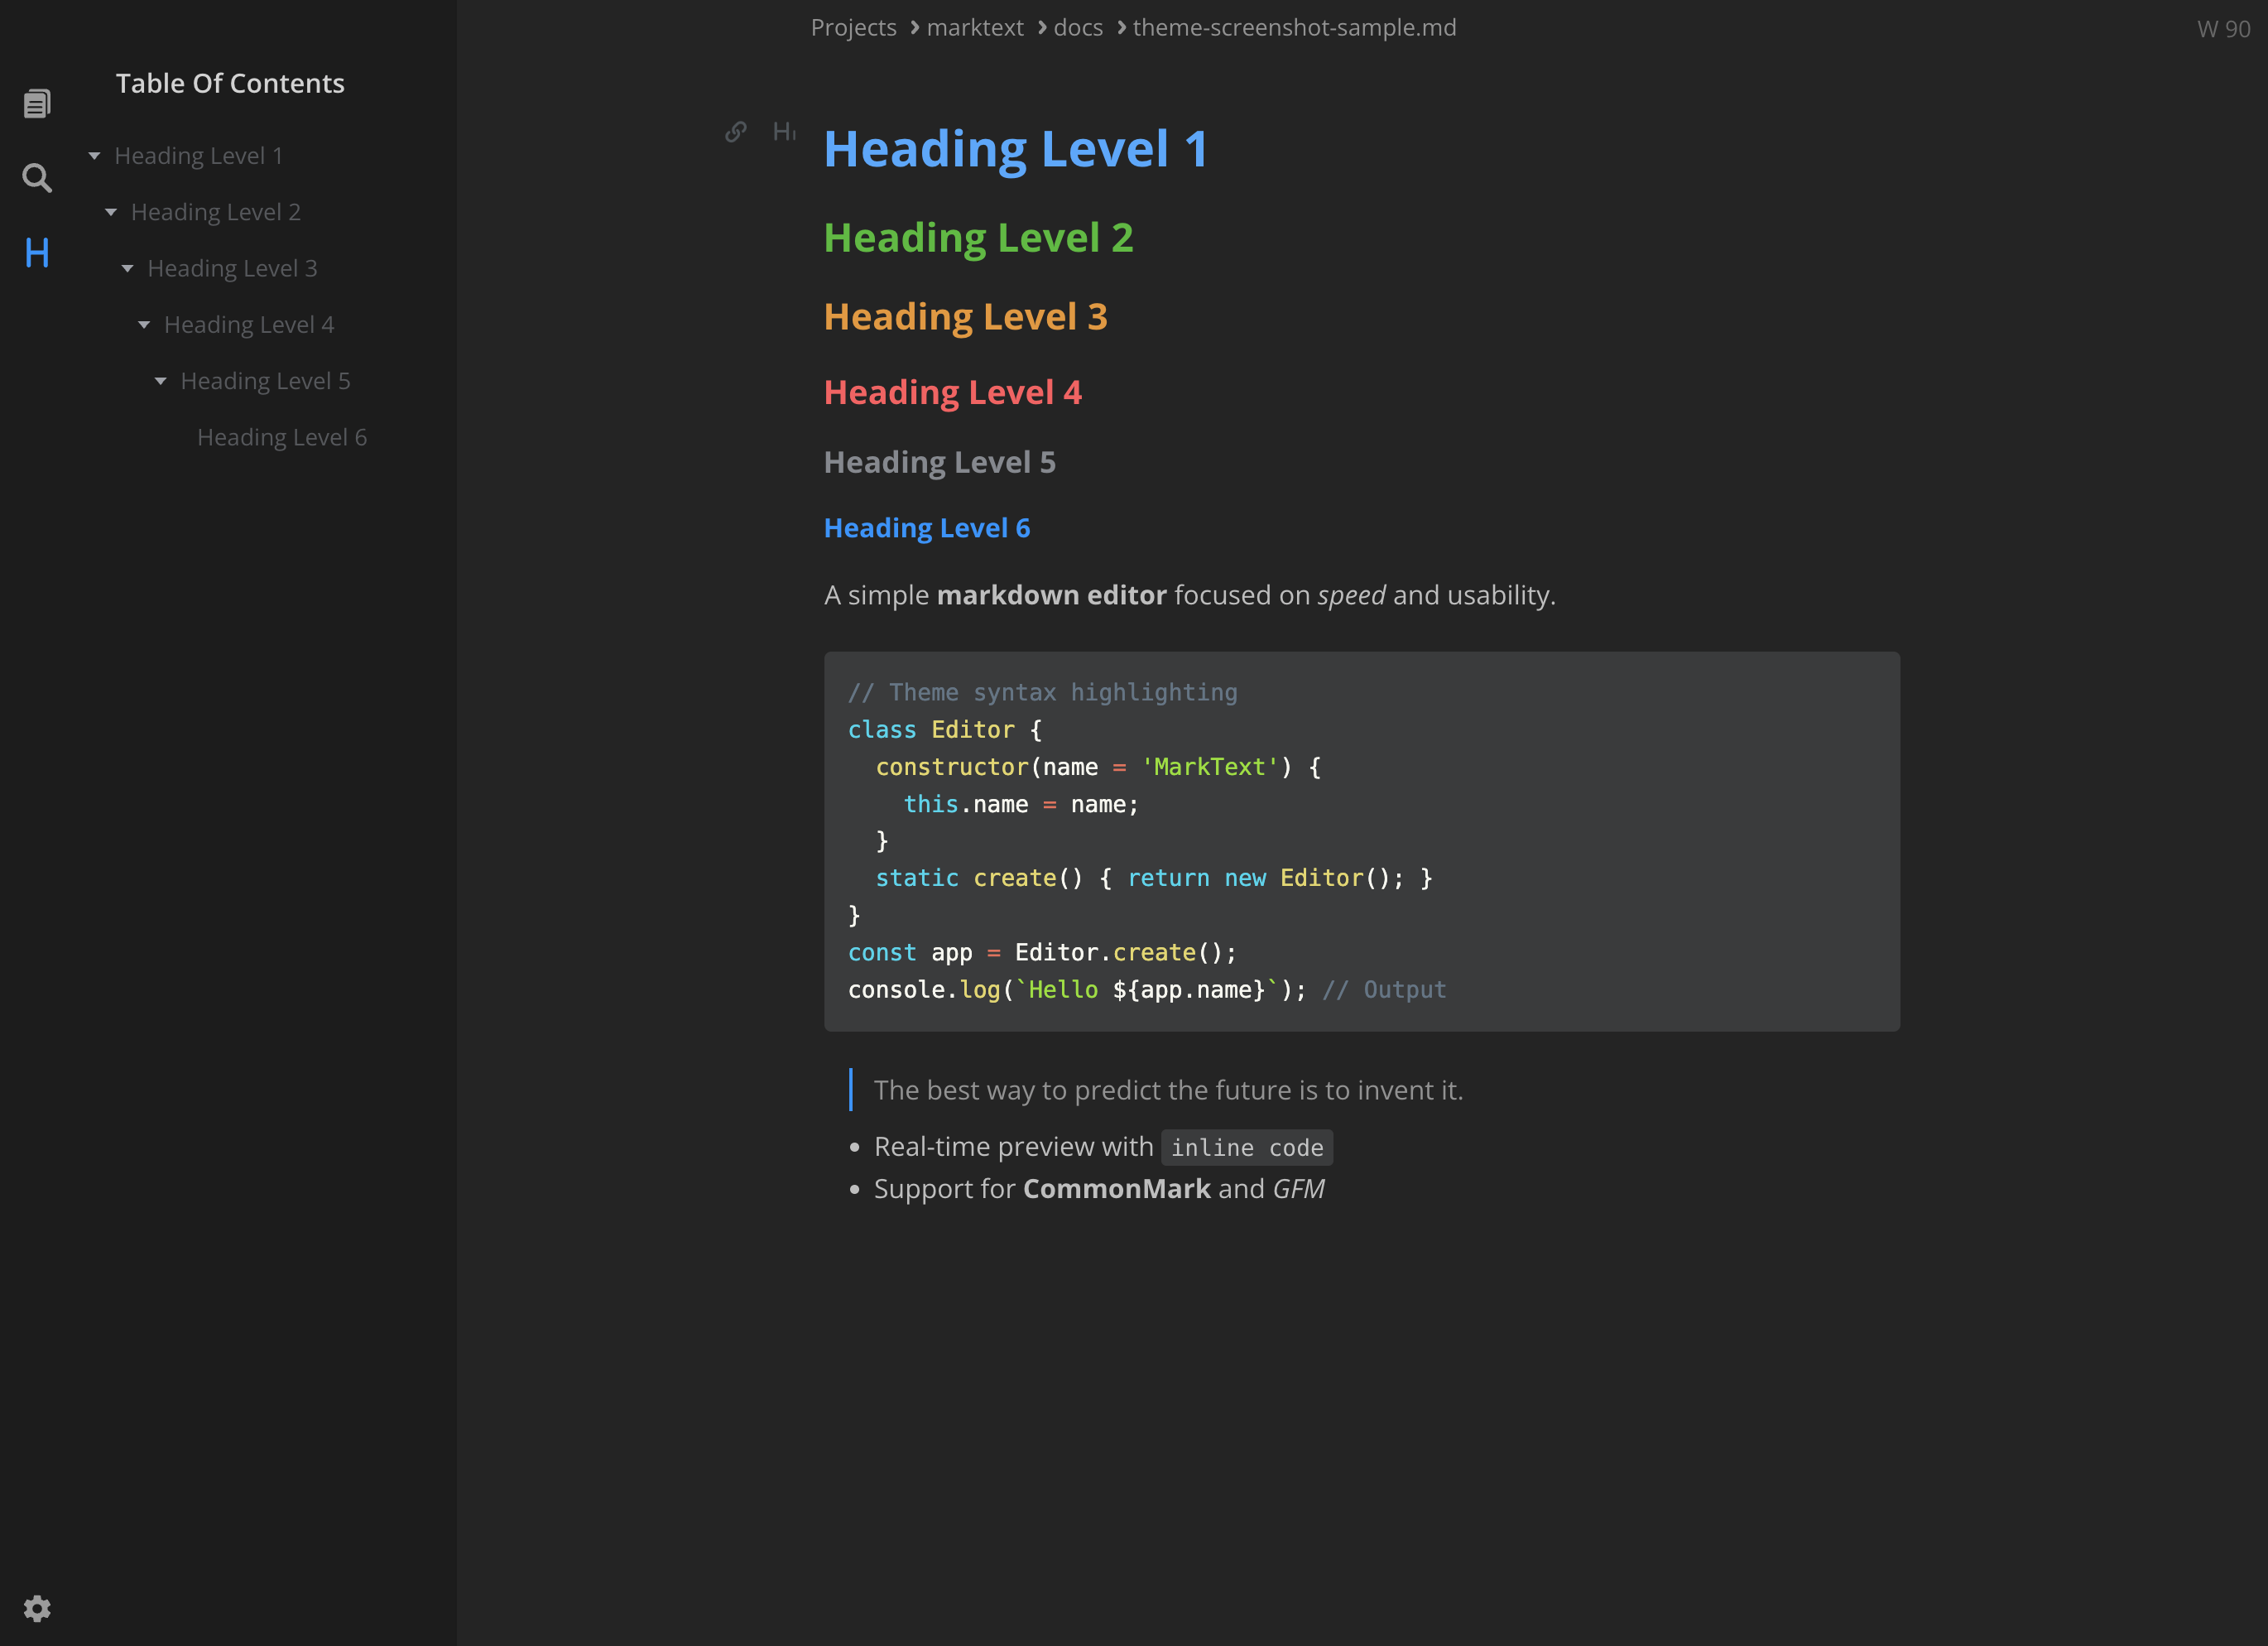
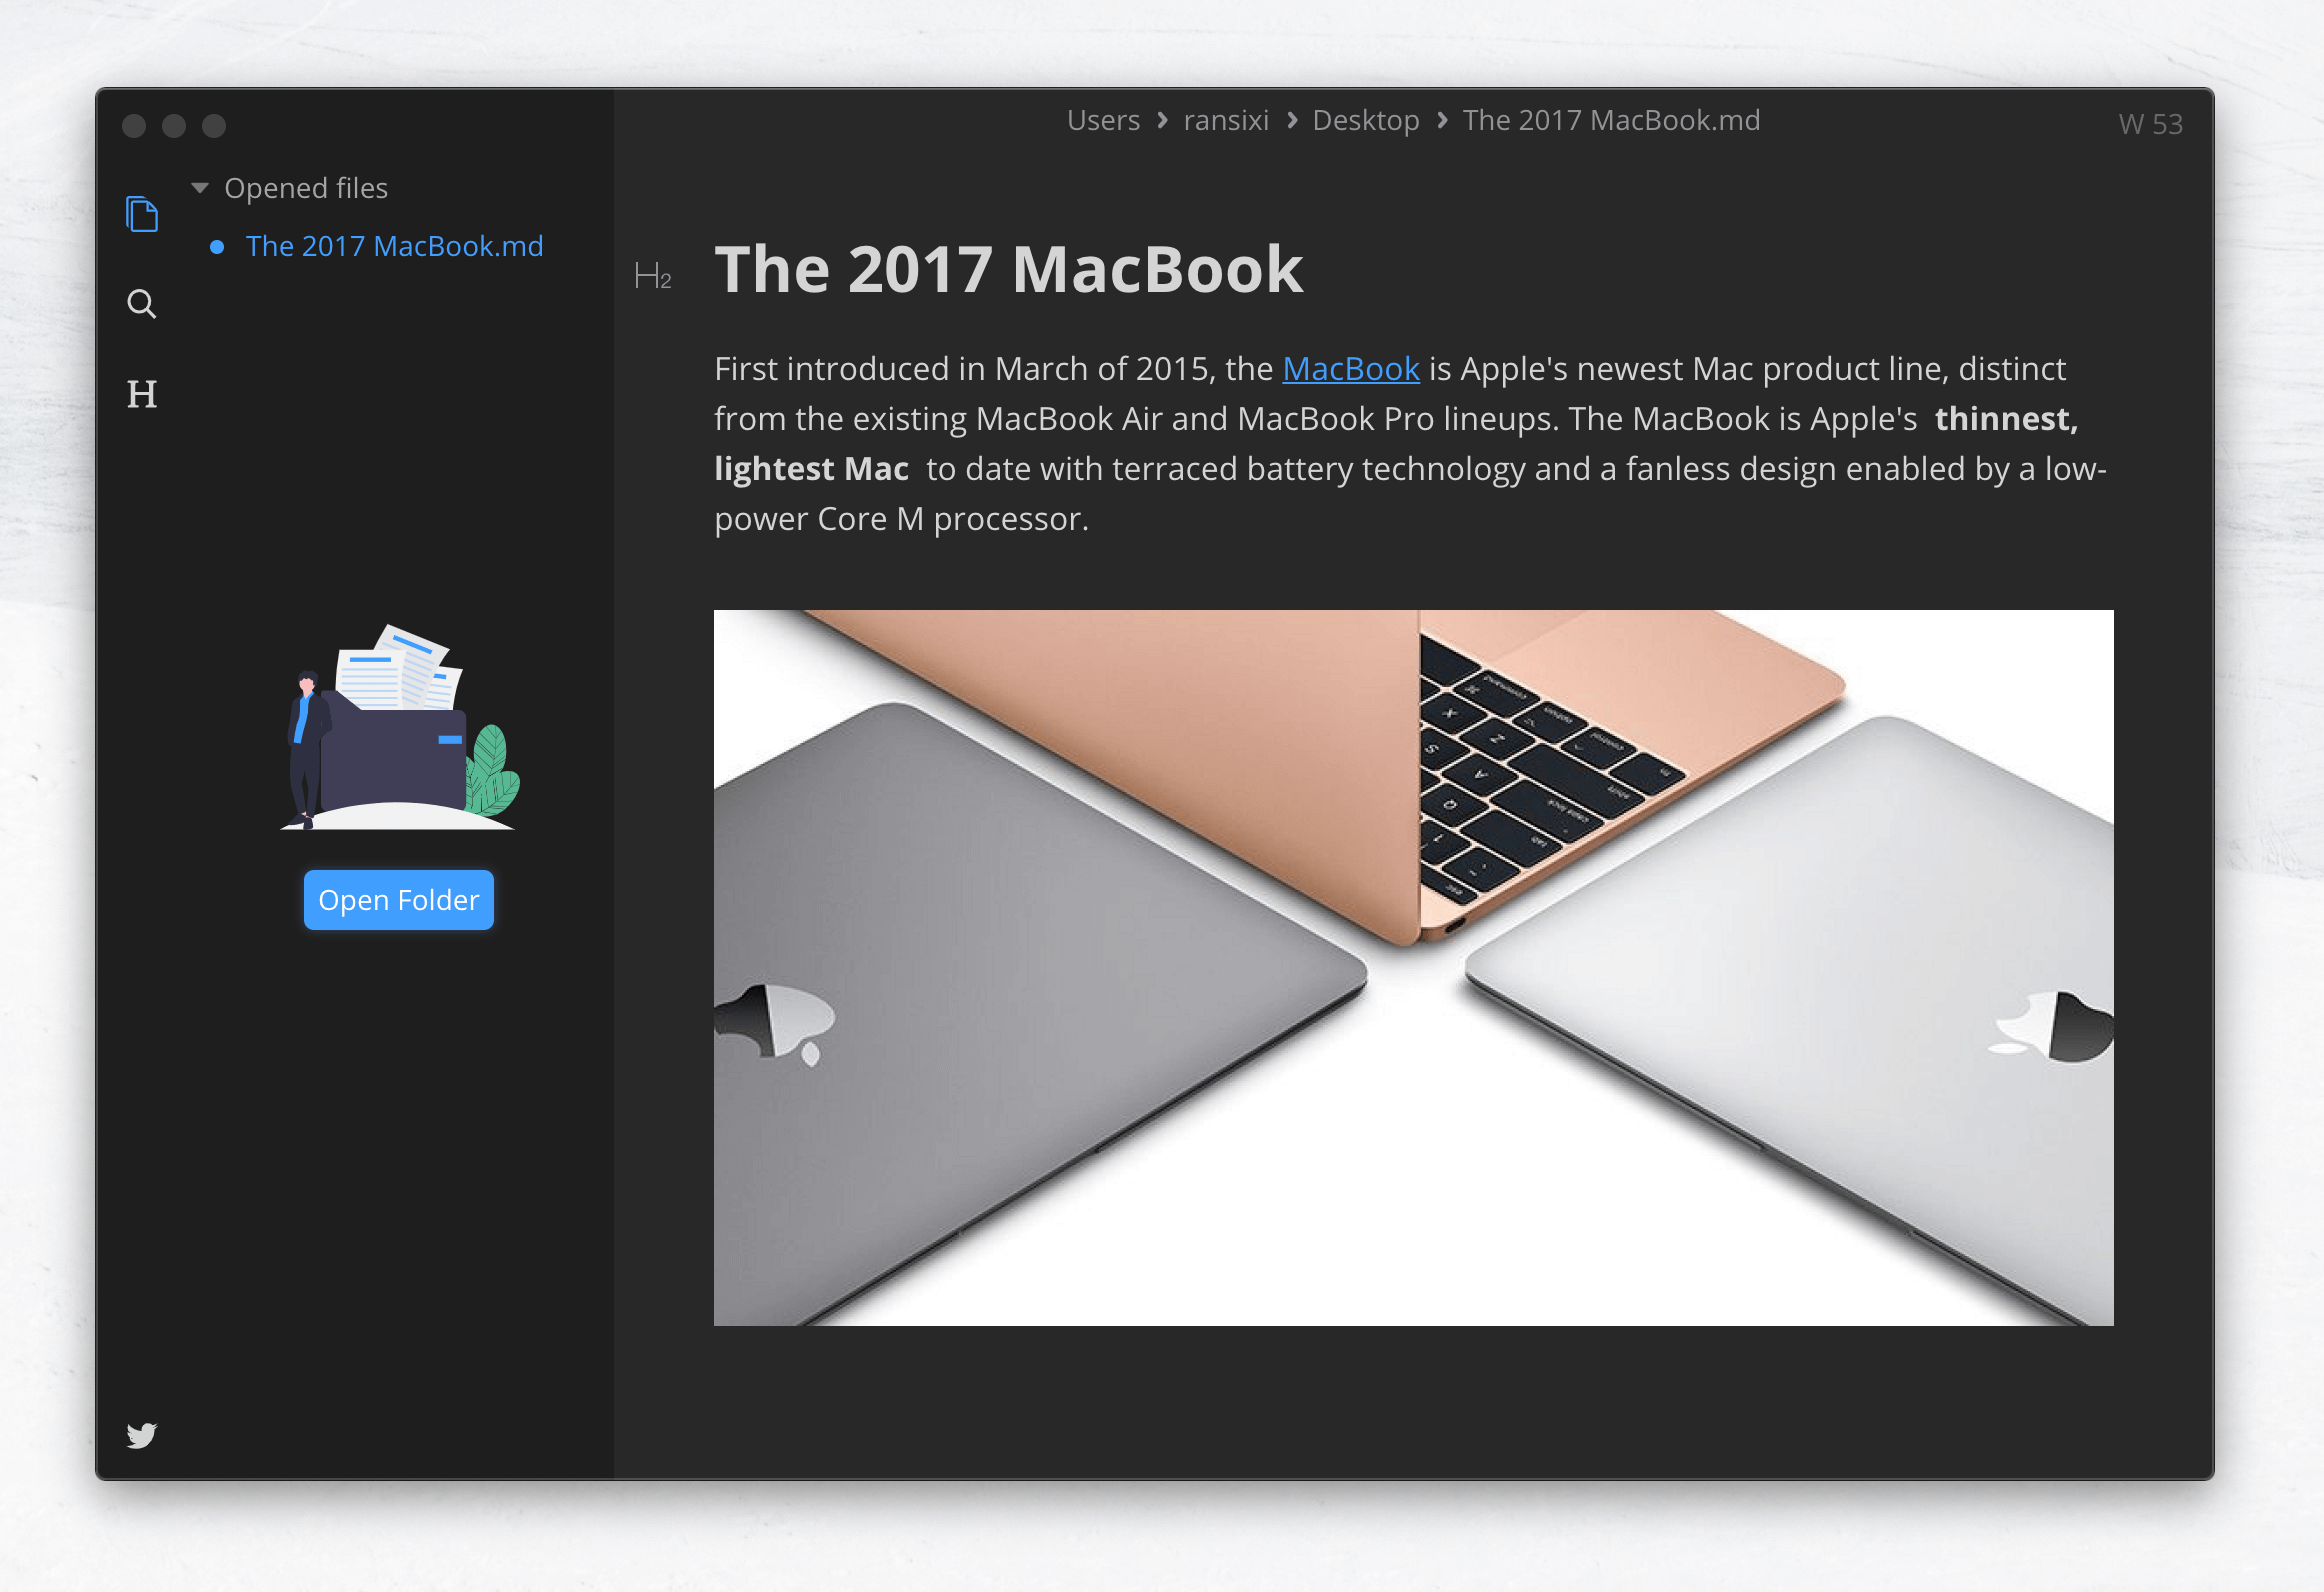
Restore dark theme to original marktext dark

diff --git a/src/renderer/src/assets/themes/dark.theme.css b/src/renderer/src/assets/themes/dark.theme.css
@@ -1,37 +1,37 @@
 :root {
   /*editor*/
   --themeColor: #409eff;
-  --themeColor90: rgba(64, 158, 255, .9);
-  --themeColor80: rgba(64, 158, 255, .8);
-  --themeColor70: rgba(64, 158, 255, .7);
-  --themeColor60: rgba(64, 158, 255, .6);
-  --themeColor50: rgba(64, 158, 255, .5);
-  --themeColor40: rgba(64, 158, 255, .4);
-  --themeColor30: rgba(64, 158, 255, .3);
-  --themeColor20: rgba(64, 158, 255, .2);
-  --themeColor10: rgba(64, 158, 255, .1);
+  --themeColor90: rgba(64, 158, 255, 0.9);
+  --themeColor80: rgba(64, 158, 255, 0.8);
+  --themeColor70: rgba(64, 158, 255, 0.7);
+  --themeColor60: rgba(64, 158, 255, 0.6);
+  --themeColor50: rgba(64, 158, 255, 0.5);
+  --themeColor40: rgba(64, 158, 255, 0.4);
+  --themeColor30: rgba(64, 158, 255, 0.3);
+  --themeColor20: rgba(64, 158, 255, 0.2);
+  --themeColor10: rgba(64, 158, 255, 0.1);
 
-  --highlightColor: rgba(102, 177, 255, .6);
-  --selectionColor: rgba(102, 177, 255, .3);
-  --editorColor: rgba(255, 255, 255, .7);
-  --editorColor80: rgba(255, 255, 255, .8);
-  --editorColor60: rgba(255, 255, 255, .6);
-  --editorColor50: rgba(255, 255, 255, .5);
-  --editorColor40: rgba(255, 255, 255, .4);
-  --editorColor30: rgba(255, 255, 255, .3);
-  --editorColor10: rgba(255, 255, 255, .1);
-  --editorColor04: rgba(255, 255, 255, .04);
+  --highlightColor: rgba(102, 177, 255, 0.6);
+  --selectionColor: rgba(102, 177, 255, 0.3);
+  --editorColor: rgba(255, 255, 255, 0.7);
+  --editorColor80: rgba(255, 255, 255, 0.8);
+  --editorColor60: rgba(255, 255, 255, 0.6);
+  --editorColor50: rgba(255, 255, 255, 0.5);
+  --editorColor40: rgba(255, 255, 255, 0.4);
+  --editorColor30: rgba(255, 255, 255, 0.3);
+  --editorColor10: rgba(255, 255, 255, 0.1);
+  --editorColor04: rgba(255, 255, 255, 0.04);
   --editorBgColor: #282828;
   --deleteColor: #409eff;
-  --iconColor: rgba(255, 255, 255, .56);
+  --iconColor: rgba(255, 255, 255, 0.56);
   --codeBgColor: #424344;
   --codeBlockBgColor: #424344;
-  --footnoteBgColor: rgba(66, 67, 68, .3);
+  --footnoteBgColor: rgba(66, 67, 68, 0.3);
   --inputBgColor: #2f3336;
 
   --focusColor: var(--themeColor);
 
-  --buttonFontColor: rgba(255, 255, 255, .6);
+  --buttonFontColor: rgba(255, 255, 255, 0.6);
   --buttonBgColor: #424344;
   --buttonBorder: 1px solid rgba(0, 0, 0, 0.2);
   --buttonShadow: none;
@@ -57,36 +57,36 @@
   --tableBorderColor: #363839;
 
   /* Markdown element colors */
-  --headingColor: rgba(255, 255, 255, .8);
-  --h1Color: #66b1ff;
-  --h2Color: #67c23a;
-  --h3Color: #e6a23c;
-  --h4Color: #f56c6c;
-  --h5Color: #909399;
-  --h6Color: #409eff;
-  --blockquoteTextColor: rgba(255, 255, 255, .5);
+  --headingColor: rgba(255, 255, 255, 0.8);
+  --h1Color: var(--editorColor80);
+  --h2Color: var(--editorColor80);
+  --h3Color: var(--editorColor80);
+  --h4Color: var(--editorColor80);
+  --h5Color: var(--editorColor80);
+  --h6Color: var(--editorColor80);
+  --blockquoteTextColor: rgba(255, 255, 255, 0.5);
   --blockquoteBorderColor: #409eff;
-  --hrColor: rgba(255, 255, 255, .1);
+  --hrColor: rgba(255, 255, 255, 0.1);
   --linkColor: #409eff;
-  --strongColor: rgba(255, 255, 255, .8);
+  --strongColor: rgba(255, 255, 255, 0.8);
   --emColor: #66b1ff;
   --listMarkerColor: #409eff;
 
   /*marktext*/
-  --sideBarColor: rgba(255, 255, 255, .6);
+  --sideBarColor: rgba(255, 255, 255, 0.6);
   --sideBarIconColor: var(--iconColor);
-  --sideBarTitleColor: rgba(255, 255, 255, .8);
-  --sideBarTextColor: rgba(255, 255, 255, .4);
+  --sideBarTitleColor: rgba(255, 255, 255, 0.8);
+  --sideBarTextColor: rgba(255, 255, 255, 0.4);
   --sideBarBgColor: #1e1e1e;
-  --sideBarItemHoverBgColor: rgba(255, 255, 255, .03);
+  --sideBarItemHoverBgColor: rgba(255, 255, 255, 0.03);
   --itemBgColor: #3f3f3f;
 
-  --floatFontColor: rgba(255, 255, 255, .7);
+  --floatFontColor: rgba(255, 255, 255, 0.7);
   --floatBgColor: #3f3f3f;
-  --floatHoverColor: rgba(255, 255, 255, .04);
-  --floatBorderColor: rgba(0, 0, 0, .05);
+  --floatHoverColor: rgba(255, 255, 255, 0.04);
+  --floatBorderColor: rgba(0, 0, 0, 0.05);
   --floatShadow: rgba(0, 0, 0, 0.2);
-  --maskColor: rgba(0, 0, 0, .7);
+  --maskColor: rgba(0, 0, 0, 0.7);
   --editorAreaWidth: 750px;
 }
 
@@ -104,7 +104,7 @@
 }
 .title-bar .frameless-titlebar-minimize:hover,
 .title-bar .frameless-titlebar-toggle:hover {
-  background-color: rgb(255, 255, 255, .05);
+  background-color: rgb(255, 255, 255, 0.05);
 }
 
 .side-bar {
@@ -150,14 +150,14 @@
 
 /* ------------------------------------ */
 
-:not(pre) > code[class*="language-"],
+:not(pre) > code[class*='language-'],
 pre:not(.CodeMirror-line),
-pre[class*="language-"],
+pre[class*='language-'],
 pre.ag-paragraph {
   background: var(--codeBlockBgColor) !important;
   border: none !important;
 }
-p:not(.ag-active)[data-role="hr"]::before {
+p:not(.ag-active)[data-role='hr']::before {
   border-top: 2px dashed var(--editorColor10) !important;
   background: none !important;
 }
@@ -170,4 +170,3 @@ figure.ag-active.ag-container-block > div.ag-container-preview {
  */
 
 /* @import url("prismjs/dark.theme.css"); */
-